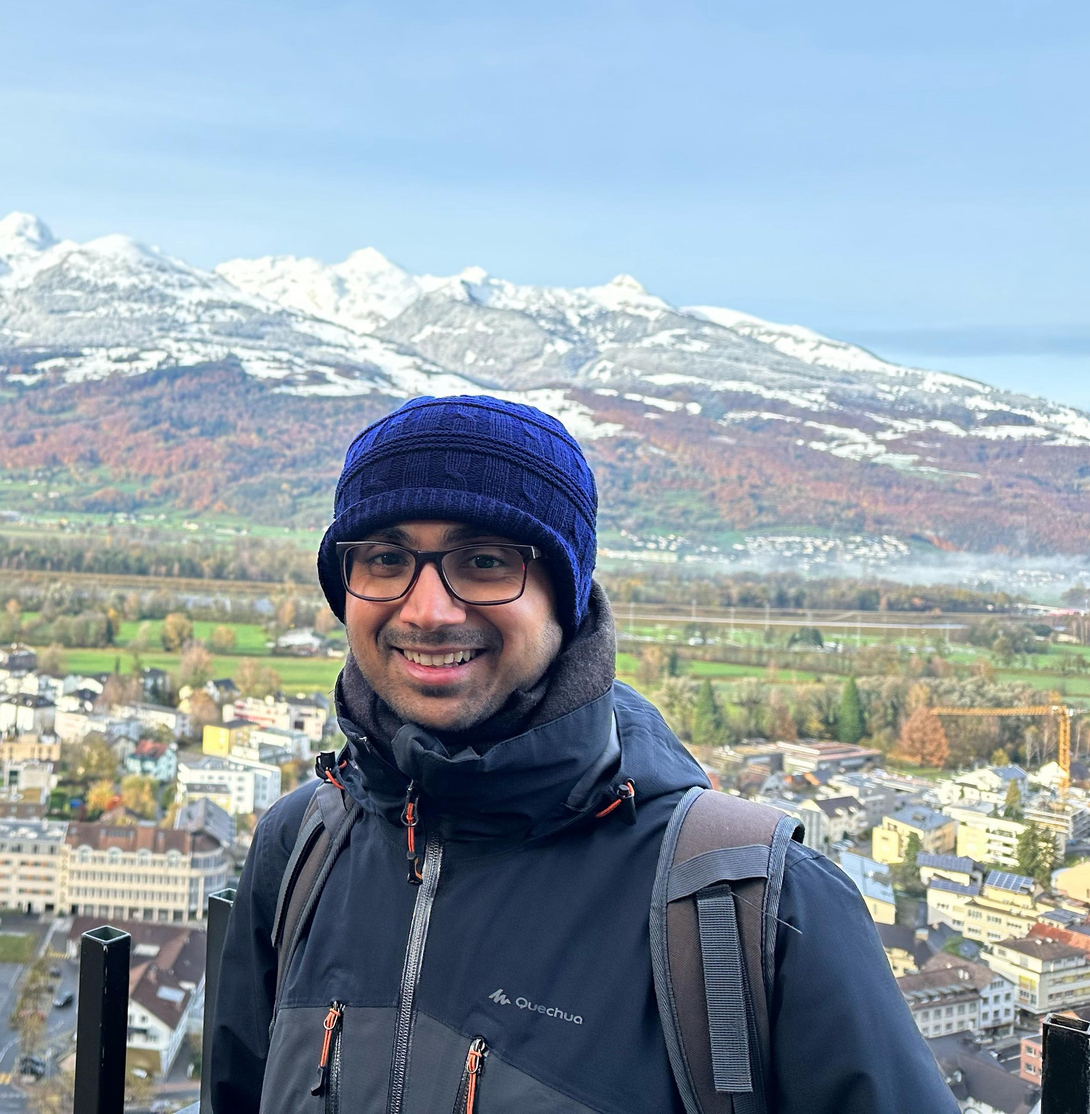
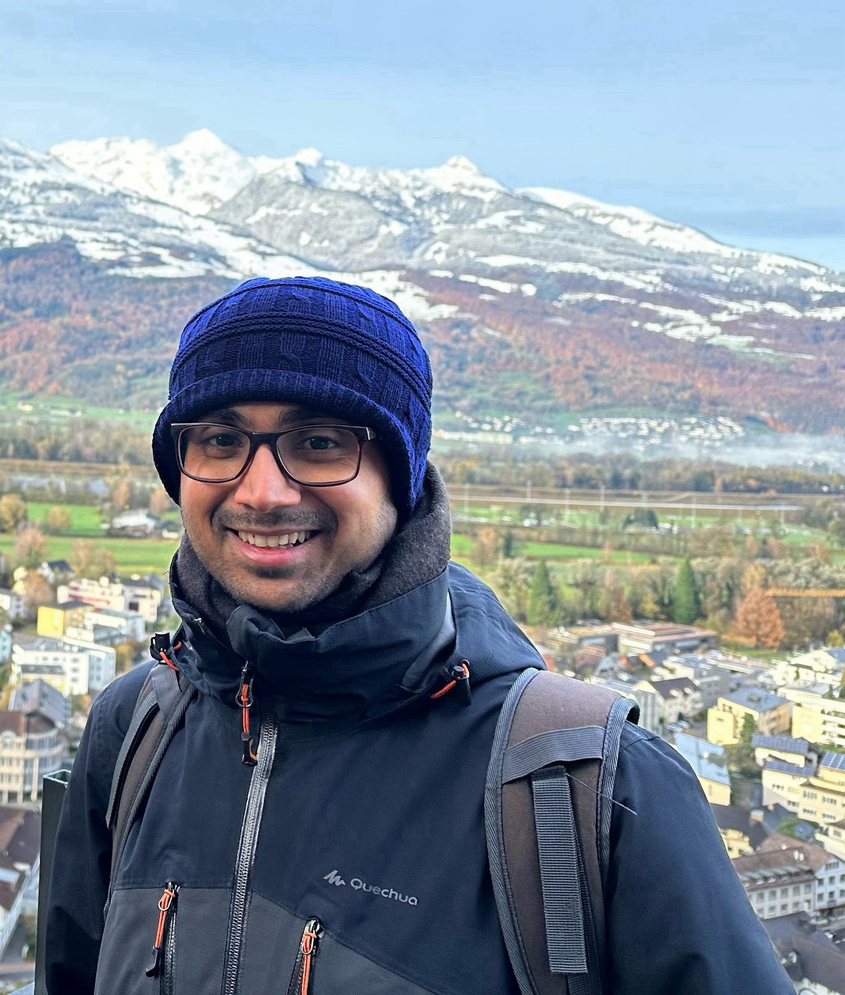
design changes

diff --git a/index.html b/index.html
@@ -2,6 +2,8 @@
 <head>
     <title style="color: black;"> Monosij Maitra </title>
     <meta name="viewport" content="width=device-width; initial-scale=1.0; maximum-scale=1;"/> <!--user-scalable=0; doesn't work-->
+    <script src="https://ajax.googleapis.com/ajax/libs/jquery/3.7.1/jquery.min.js"></script>
+    <script src="https://maxcdn.bootstrapcdn.com/bootstrap/3.4.1/js/bootstrap.min.js"></script>
     <style>
     body {
         background:white;
@@ -28,7 +30,7 @@
 	tr.border_bottom td {border-bottom:1pt solid #977D6B;}
     p.big {line-height: 1.6;}
     img {display: block;}
-    
+
     #myBtn {
         display: none;
         position: fixed;
@@ -70,43 +72,45 @@
 <body link="#004C99" alink="#FF0000">
     <br><br>
     <div class="content">
-        <img style="border: 2px solid #eba63f; float: left; margin-top: -28px; margin-left: 0px;" src="dp-new.jpeg" height="280" width=auto;>
-        <h1> Monosij Maitra</h1>
-        <h4 style="line-height: 20px"> Email: {first name} AT <font color="#874947">cse.iitkgp.ac.in</font> / {first name.last name} AT <font color="#3e65cf">g</font><font color="#c71610">m</font><font color="#D44638">a</font><font color="#f2a60c">i</font><font color="#08851b">l</font>.com <!--(gmail (DOT) com / rub (DOT) de)--></h4>
+        <img style="border: 2px solid #eba63f; float: left; margin-top: -28px; margin-left: 0px;" src="dp-new.jpeg" height=326px width=275px;>
+        <h1 style="margin-bottom: -10px"> Monosij Maitra</h1>
+        <h4 style="line-height: 12px"> Email: {first name} AT <font color="#874947">cse.iitkgp.ac.in</font> / {first name.last name} AT <font color="#3e65cf">g</font><font color="#c71610">m</font><font color="#D44638">a</font><font color="#f2a60c">i</font><font color="#08851b">l</font>.com </h4>
         <h4 style="line-height: 2px">Office: Room 307, CSE Main Building, IIT Kharagpur.<!--MC 0.20, Universitätsstra&beta;e 150, 44801 Bochum.--></h4>
         <p class="Big">
             <!--#EC7063, #4169E1, #E74C3C-->
-             
             I work as a faculty <!--will be joining shortly as a faculty--> in
             the <a href="https://cse.iitkgp.ac.in/" target="_blank"> CSE department</a> at <a href="https://www.iitkgp.ac.in/department/CS/faculty/cs-monosij" target="_blank">IIT Kharagpur</a>.
             
-            Before, I worked as a postdoc jointly with <a href="https://informatik.rub.de/kiltz/" target="_blank"> Eike Kiltz</a> (<a href="https://informatik.rub.de/crypto/" style="text-decoration:" target="_blank">Ruhr-Universität Bochum</a>) and <a href="https://sites.google.com/view/giuliomalavolta/" target="_blank"> Giulio Malavolta</a> (<a href="https://www.mpi-sp.org/" style="text-decoration: ;" target="_blank">Max Planck Institute for Security and Privacy</a>). 
+            Prior to joining IIT Kharagpur, I worked as a postdoc jointly with <a href="https://informatik.rub.de/kiltz/" target="_blank"> Eike Kiltz</a> (at <a href="https://informatik.rub.de/crypto/" style="text-decoration:" target="_blank">Ruhr-Universität Bochum</a>) and <a href="https://sites.google.com/view/giuliomalavolta/" target="_blank"> Giulio Malavolta</a> (at <a href="https://www.mpi-sp.org/" style="text-decoration: ;" target="_blank">Max Planck Institute for Security and Privacy</a>). 
             
             <!--I am currently working as a postdoc with a joint appointment at <a href="https://informatik.rub.de/crypto/" style="text-decoration:" target="_blank"> Ruhr-Universität Bochum</a> (with <a href="https://informatik.rub.de/kiltz/" target="_blank"> Eike Kiltz</a>) and <a href="https://www.mpi-sp.org/" style="text-decoration: ;" target="_blank"> Max Planck Institute for Security and Privacy</a> (with <a href="https://sites.google.com/view/giuliomalavolta/" target="_blank"> Giulio Malavolta</a>).-->
             
-            Prior to that, I also worked as a postdoc with <a href="https://www.informatik.tu-darmstadt.de/cac/cac/team_cac/sebastian_faust_cac/index.en.jsp" style="color: #361999;" target="_blank"> Sebastian Faust</a> (<a href="https://www.informatik.tu-darmstadt.de/cac/cac/index.en.jsp" style="color: #361999;" target="_blank">TU Darmstadt</a>).
+            Before that, I also worked as a postdoc with <a href="https://www.informatik.tu-darmstadt.de/cac/cac/team_cac/sebastian_faust_cac/index.en.jsp" style="color: #361999;" target="_blank"> Sebastian Faust</a> (at <a href="https://www.informatik.tu-darmstadt.de/cac/cac/index.en.jsp" style="color: #361999;" target="_blank">TU Darmstadt</a>).
             
-            Earlier, I received my PhD in <a href="http://www.cse.iitm.ac.in" target="_blank">CSE</a> from <a href="https://www.iitm.ac.in/" style="color:#361999" target="_blank">IIT Madras</a> and thereafter worked briefly as a research staff at <a href="https://www.cse.iitm.ac.in/~ccd/" style="color: #361999;" target="_blank">CCD@IITM</a>.
+            Earlier, I received a PhD in <a href="http://www.cse.iitm.ac.in" target="_blank">CSE</a> from <a href="https://www.iitm.ac.in/" style="color:#361999" target="_blank">IIT Madras</a> and then worked as a research staff at <a href="https://www.cse.iitm.ac.in/~ccd/" style="color: #361999;" target="_blank">CCD@IITM</a>.
             
             During PhD, I was very fortunate to be advised by <a href="http://www.cse.iitm.ac.in/~shwetaag/index.html" style="color:#361999" target="_blank">Shweta Agrawal</a>.
-            
-            <font color="#c1436d">Feel free to email for my detailed CV.</font></p>
-        <ul id="menu" style="padding-left:287px">
-            <li id="top"><font color="#c1436d">|</font><a href="#Research">Research Interests </a></li><font color="#c1436d">|</font>
-            <li><a href="#Publications"> Publications/Manuscripts/Patents </a></li><font color="#c1436d">|</font>
+        </p>    
+        <p class="Big">    
+            My research interests are broadly in the theory and applications of public-key cryptography with a focus on computing on encrypted/authenticated data and building tools to enable distributed trust.
+            <!--<font color="#c1436d">Feel free to email for my detailed CV.</font>-->
+        </p>
+        <ul id="menu" style="padding-left:290px">
+            <!--<li id="top"><font color="#c1436d">|</font><a href="#Research">Research Interests </a></li><font color="#c1436d">|</font>-->
+            <li><a href="#Publications"> Research </a></li><font color="#c1436d">|</font>
             <li><a href="#Service"> Professional </a></li><font color="#c1436d">|</font>
             <li><a href="#Teaching"> Teaching </a></li><font color="#c1436d">|</font>
+            <li><a href="#Misc"> Miscellaneous </a></li><font color="#c1436d">|</font>
         </ul>
         <br>
         <hr>
         
-        <h2 id="Research" style="margin-top: 30px;">Research Interests</h2>&nbsp;
+        <!--<h2 id="Research" style="margin-top: 30px;">Research Interests</h2>&nbsp;
 		
 		<p class="big" style="padding-left:0px; margin-top: -20px;"> My research interests are broadly in the theory and applications of public-key cryptography with a focus on computing on encrypted/authenticated data and building tools to enable distributed trust. 
-            <!--During PhD, I worked largely on functional encryption and attribute based encryption.-->
-        </p>
+        </p>-->
         
-        <h2 id="Publications" style="margin-top: 25px;">Publications/Manuscripts/Patents <a style="font-size: 18px; color: #1DA9A1; text-decoration: underline;" href="https://dblp.uni-trier.de/pers/hd/m/Maitra:Monosij" target="_blank">[DBLP]</a> <a style="font-size: 18px; color: #1DA9A1; text-decoration: underline;" href="https://scholar.google.com/citations?user=8XVPvXQAAAAJ&hl=en&oi=ao" target="_blank">[Google Scholar]</a></h2><!--7DA2A9-->
+        <h2 id="Publications" style="margin-top: 25px;">Research: Publications/Preprints/Patents <a style="font-size: 18px; color: #1DA9A1; text-decoration: underline;" href="https://dblp.uni-trier.de/pers/hd/m/Maitra:Monosij" target="_blank">[DBLP]</a> <a style="font-size: 18px; color: #1DA9A1; text-decoration: underline;" href="https://scholar.google.com/citations?user=8XVPvXQAAAAJ&hl=en&oi=ao" target="_blank">[Google Scholar]</a></h2><!--7DA2A9-->
 		
         <ul style="padding-left:15px">
             <li style="margin-top:10px;">
@@ -198,17 +202,21 @@
                 <ul style="margin-left: -20px">- ITCS 2021, PKC (2019, 2021, 2022, 2023, 2024), Indocrypt (17, 20, 22)</ul>
                 <ul style="margin-left: -20px">- SCN 2024, CANS 2024</ul>
             </li>
+        </ul>
+        </div>
+        <div class="acs" style="padding-left: 8px;padding-right: 8px;margin-top: 34px;"><hr width="1px;" size="144px" style="background: #eba63f;"></div>
+        <div class="acs"; style = "width:auto; height: auto">
+        <ul style="padding-left: 15px; padding-right: 10px;">
+            <li style="margin-top:2px;"><b>Volunteer</b>: Indocrypt 2017, TCC 2018.</li>
             <li style="margin-top:2px;"><b>Journal review</b>:
                 <ul style="margin-left: -20px">- Journal of Cryptography</ul>
                 <ul style="margin-left: -20px">- Design, Codes and Cryptography</ul>
                 <ul style="margin-left: -20px">- IEEE Transactions on Dependable and Secure Computing</ul>
                 <ul style="margin-left: -20px">- IEEE Transactions on Information Forensics and Security</ul>
             </li>
-            <li style="margin-top:2px;"><b>Student volunteer</b>: Indocrypt 2017, TCC 2018.</li>
-        </ul>
+        </ul>    
         </div>
-        <!--<div class="acs" style="padding-left: 12px;margin-top: 34px;"><hr width="1px;" size="185" style="background: #eba63f;"></div>
-        <div class="acs">
+        <!--<div class="acs">
             <ul style="padding-left:50px;">
                 <li style="margin-left: -23px;margin-top:5px; color:#2A3166; list-style-type: none"><b>Teaching Assistance @ IIT Madras</b></li>
                 <li style="margin-left: -6px;margin-top:4px;">Foundations of Cryptography</li>
@@ -234,9 +242,30 @@
         <ul style="padding-left: 15px; padding-right: 10px;">
             <li style="margin-top:2px;"><b>Semester-1, 2024-25 (CSE, IIT Kharagpur)</b>:
                 <ul style="margin-left: -20px">- <a href="" target="">CS60065: Cryptography and Network Security</a></ul>
-                <ul style="margin-left: -20px">- <a href="" target="">CS19003: Programming and Data Structures Lab</a> (Jointly with <a href="https://satcrypt.github.io/" target="_blank">Satrajit Ghosh</a>)</ul><br>
+                <ul style="margin-left: -20px">- <a href="" target="">CS19003: Programming and Data Structures Lab</a><br>&nbsp;&nbsp;(Jointly with <a href="https://satcrypt.github.io/" target="_blank">Satrajit Ghosh</a>)</ul><br>
             </li>
-            <br>
+        </ul>
+        </div>
+        <!--<div class="acs" style="padding-left: 20px;padding-right: 20px;margin-top: 34px;"><hr width="1px;" size="100px" style="background: #eba63f;"></div>
+        <div class="acs"; style = "width:auto; height: auto">
+        <ul style="padding-left: 20px; padding-right: 10px;">
+            <li style="margin-top:2px;"><b>Semester-2, 2024-25 (CSE, IIT Kharagpur)</b>:
+                <ul style="margin-left: -20px">- <a href="" target="">CS60065: Cryptography and Network Security</a></ul>
+                <ul style="margin-left: -20px">- <a href="" target="">CS19003: Programming and Data Structures Lab</a><br>&nbsp;&nbsp;(Jointly with <a href="https://satcrypt.github.io/" target="_blank">Satrajit Ghosh</a>)</ul><br>
+            </li>
+        </ul>
+        </div>-->
+        <div class="acs"; style = "width:auto; height: auto">
+        <ul style="padding-left: 15px; padding-right: 10px;">   
+            <!--<button type="button" class="btn btn-info" data-toggle="collapse in" data-target="demo">Prior Experience</button>
+            <div id="demo" class="collapse" style="display: none;">
+            <p class="Big">
+                Lorem ipsum dolor sit amet, consectetur adipisicing elit, sed do eiusmod tempor incididunt ut labore et dolore magna aliqua. Ut enim ad minim veniam, quis nostrud exercitation ullamco laboris nisi ut aliquip ex ea commodo consequat.
+            </p>
+            </div>-->
+            
+            
+            <p class="Big"></p>
             <hr style="margin-left: -13px;width: inherit">
             <li style="margin-top:2px"><b><font color="#E40C2B">Past (Autumn 2021):</font> Mentoring Assistance (CS, TU Darmstadt)</b>: Research in Cryptography</li>
             <li style="margin-top:2px;"><b><font color="#E40C2B">Past (2015 - 2020):</font> Teaching Assistance (CSE, IIT Madras)</b>
@@ -249,9 +278,17 @@
                 <ul style="margin-left: -20px">- Introduction to Programming &nbsp;&nbsp;|&nbsp;&nbsp; Data Structures and Algorithms</ul>
                 <ul style="margin-left: -20px">- Formal Languages and Automata Theory</ul>
             </li>
+            
         </ul><br>
             <hr style="margin-left: 0px;width: inherit">
-    </div>
-
+        </div>
+        
+        <h2 id="Misc" style="margin-top: 10px;">Miscellaneous</h2>
+        <div class = "acs"; style="width: auto; height: auto;"> 
+        (TBU)
+        <!--<ul style="padding-left: 15px; padding-right: 10px;">
+            <li style="margin-top:2px;">To be updated</li>
+        </ul>-->
+        </div>
 </body>
 </html>
